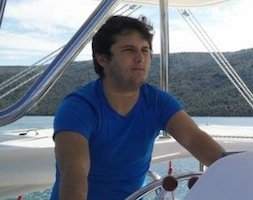
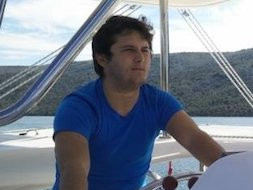
Deploy latest changes! (#432)
* - add Tetiana as a team member
- resize Sergio photo

* created link to speakers page to speakers name

* added infoTalk page

* Added room names for Cinemas (#424)

* Added room names for Cinemas

* Updated room names

* Removed 'Buy ticket' section (#422)

* added feature to workshops

* fix layout issue with speakers with 1 social link

* Add my bio

* add networking party (#425)

* add networking party

* change content

* bold sentence

* fix metro line (#427)

* replaced speaker Nicolas Gonzalez by Miguel Angel Gomez

* added Barcelona Activa as supporter

* add linkt to the party, change room Great 10 to Eleven

* change Eleve to Jane 11 Ives

* Fixed issue with Miklos foto

* fix captions mytaxi

diff --git a/2018/infoTalk.html b/2018/infoTalk.html
@@ -1,0 +1,221 @@
+---
+layout: default
+title: JBCNConf - About the Organizers from Barcelona JUG
+bodyClass: home page-template-default page page-id-7 eventstation-class eventstation-shop-column-4 wpb-js-composer js-comp-ver-5.0.1 vc_responsive
+---
+{% include base.html %}
+
+<script>
+    (function(global){
+        var talk, currentTalkId;
+        var speakers = [];
+
+        var talkId = new URL(window.location).searchParams.get("id");
+
+        {% for talkCursor in site.data.talks.items %}
+        currentTalkId = {{ talkCursor.id }}
+        if({{ talkCursor.id }} == talkId){
+            talk = {{ talkCursor | jsonify }};
+        }
+        {% endfor %}
+
+        {% for speaker in site.data.speakers.items %}
+        for (var i = 0; i < talk.speakers.length; i++) {
+            if (talk.speakers[i] == "{{ speaker.ref }}") {
+                speakers.push({{ speaker | jsonify }});
+            }
+        }
+        {% endfor %}
+
+        global.TALK = talk;
+        global.SPEAKERS = speakers;
+    }(window));
+</script>
+
+<div class="content-heading">
+    <div class="container-fluid">
+        <div class="heading-navigation">
+            <i class="fa fa-address-book"></i>
+            <ul>
+                <li>Home</li>
+                <li>&#47;</li>
+                <li id="session-type"></li>
+            </ul>
+        </div>
+
+        <div class="heading-title">
+        </div>
+    </div>
+</div>
+
+<div class="site-sub-content clearfix">
+    <div class="container-fluid">
+        <div class="row alternative-row">
+            <div class="col-lg-9 col-sm-9 col-xs-12 site-content-left">
+                <div class="category-post-list post-list single-list">
+
+                    <article cass="post-294 post type-post status-publish format-standard has-post-thumbnail hentry category-culturel tag-business tag-news tag-congress tag-entertainment">
+                        <div class="post-wrapper">
+                            <div class="post-header">
+                                <h2></h2>
+                                <h1 class="name"></h1>
+                                <h3 class="description"></h3>
+                            </div>
+                            <div id="post-content">
+                            </div>
+                        </div>
+                    </article>
+
+                    <article id="speaker-page-0"
+                             class="post-294 post type-post status-publish format-standard has-post-thumbnail hentry category-culturel tag-business tag-news tag-congress tag-entertainment">
+                        <div class="post-wrapper">
+
+                            <div class="post-header">
+                                <h2></h2>
+                                <h1 class="name"></h1>
+                                <h3 class="description"></h3>
+                            </div>
+
+                            <div>
+                                <p>
+                                    <img class="speaker-image size-full wp-image-237 alignright"
+                                         src=""
+                                         width="200"
+                                         height="300"
+                                         data-image-base="{{base}}/">
+                                    <ul style="float:right; list-style:none" class="post-information">
+                                        <li class="linkedin" style="display:none">
+                                            <a target="_blank" href="#">
+                                                <i class="fa fa-linkedin"></i>
+                                            </a>
+                                        </li>
+                                        <li class="twitter" style="display:none">
+                                            <a target="_blank" href="#">
+                                                <i class="fa fa-twitter"></i>
+                                            </a>
+                                        </li>
+                                        <li class="homepage" style="display:none">
+                                            <a target="_blank" href="#">
+                                                <i class="fa fa-rss"></i>
+                                            </a>
+                                        </li>
+                                    </ul>
+                                    <span class="biography">
+                                    </span>
+                                </p>
+                            </div>
+                        </div>
+                    </article>
+
+                    <!-- fix layout issue with speakers with only 1 social link -->
+                    <div>&nbsp;</div>
+
+                    <article id="speaker-page-1"
+                             class="post-294 post type-post status-publish format-standard has-post-thumbnail hentry category-culturel tag-business tag-news tag-congress tag-entertainment">
+                        <div class="post-wrapper">
+
+                            <div class="post-header">
+                                <h1 class="name"></h1>
+                                <h3 class="description"></h3>
+                            </div>
+
+                            <div>
+                                <p>
+                                    <img class="speaker-image size-full wp-image-237 alignright"
+                                         src=""
+                                         width="200"
+                                         height="300"
+                                         data-image-base="{{base}}/">
+                                    <ul style="float:right; list-style:none" class="post-information">
+                                        <li class="linkedin" style="display:none">
+                                            <a target="_blank" href="#">
+                                                <i class="fa fa-linkedin"></i>
+                                            </a>
+                                        </li>
+                                        <li class="twitter" style="display:none">
+                                            <a target="_blank" href="#">
+                                                <i class="fa fa-twitter"></i>
+                                            </a>
+                                        </li>
+                                        <li class="homepage" style="display:none">
+                                            <a target="_blank" href="#">
+                                                <i class="fa fa-rss"></i>
+                                            </a>
+                                        </li>
+                                    </ul>
+                                    <span class="biography">
+                                    </span>
+                                </p>
+                            </div>
+                        </div>
+                    </article>
+
+                    <script>
+                        (function () {
+                            jQuery(document).ready(function ($) {
+
+                                console.log($('#session-type'));
+                                if (window.TALK.type == 'talk') {
+                                    $('#session-type').append('Talk');
+                                    console.log('Talk');
+                                } else {
+                                    $('#session-type').append('Workshop');
+                                    console.log('WS');
+                                }
+
+                                var updateSpeakerPage = function () {
+                                    for (var i = 0; i < window.SPEAKERS.length; i++) {
+                                        var speaker = window.SPEAKERS[i],
+                                            $container = $("#speaker-page-"+i),
+                                            updateSocialLink = function (social) {
+                                                if (speaker[social]) {
+                                                  var link = speaker[social]
+                                                  if (social === 'twitter') {
+                                                    link = link.replace('\@','')
+                                                    if (!link.startsWith('http://') && !link.startsWith('https://')) {
+                                                      link = 'http://twitter.com/' + link
+                                                    }
+                                                  }
+                                                  $container.find("." + social).show();
+                                                  $container.find("." + social + " a").attr("href", link);
+                                                }
+
+                                            };
+
+                                        $container.find('.speaker-image').attr("src", $('.speaker-image').attr("data-image-base") + speaker.image);
+                                        $container.find(".name").html(speaker.name);
+                                        $container.find(".biography").html(speaker.biography);
+                                        $container.find(".description").html(speaker.description);
+
+                                        updateSocialLink("linkedin");
+                                        updateSocialLink("twitter");
+                                        updateSocialLink("homepage");
+                                    }
+
+                                    var talk = window.TALK;
+                                    var title = '<h1 class="talk-title"> ' + talk.title + '</h1><i>(' + talk.type + ')<i>';
+                                    var abstract = '<p style="text-align: justify;" class="abstract"> ' + talk.abstract + ' </p>';
+
+                                    $('#post-content').append(title);
+                                    $('#post-content').append(abstract);
+                                    if (talk.video) {
+                                        var video = '<iframe width="560" height="315" src="https://www.youtube.com/embed/' + talk.video + '"' +'frameborder="0" allowfullscreen></iframe>';
+                                        $talkContainer.find(".post-content").append(video);
+                                    }
+                                };
+                                updateSpeakerPage();
+                            });
+
+                        }());
+                    </script>
+                </div>
+            </div>
+
+            <div class="col-lg-3 col-sm-3 col-xs-12 site-content-right rightsidebar fixedrightSidebar">
+                {% include sponsors-sidebar.html %}
+            </div>
+
+        </div>
+    </div>
+
+</div>

diff --git a/2018/workshops.html b/2018/workshops.html
@@ -43,28 +43,21 @@ bodyClass: home page-template-default page page-id-7 eventstation-class  eventst
                             </div>
                             <div class="post-content">
 
-
                                 {% for talk in site.data.talks.items %}
 
                                 {% if talk.type contains "workshop" %}
 
-                                {% assign speakersList = '' %}
+                                <a href="{{base}}/infoTalk.html?id={{talk.id}}">
+                                    <b>{{talk.title}}</b> by
+                                </a>
                                 {% for speakerRef in talk.speakers %}
                                 {% for speaker in site.data.speakers.items %}
 
                                 {% if speakerRef == speaker.ref %}
-                                {% capture speakerUrl %}{{ speaker.url }}{% endcapture %}
-                                {% capture speakersList %} {{speakersList}} {{ speaker.name }} {% endcapture %}
+                                <a href="{{base}}/{{speaker.url}}" style="text-decoration: underline;">{{ speaker.name }}</a>
                                 {% endif %}
-
-
                                 {% endfor %}
                                 {% endfor %}
-
-
-                                <a href="{{base}}/{{speakerUrl}}">
-                                    <b>{{talk.title}}</b> by {{ speakersList }}
-                                </a>
 
                                 </br>
                                 Level: {{talk.level}}
@@ -77,10 +70,7 @@ bodyClass: home page-template-default page page-id-7 eventstation-class  eventst
                                 {% endif %}
                                 {% endfor %}
 
-
                             </div>
-
-
                         </div>
                     </article>
                 </div>

diff --git a/2018/talks.html b/2018/talks.html
@@ -44,28 +44,21 @@ bodyClass: home page-template-default page page-id-7 eventstation-class  eventst
 
                             <div class="post-content">
 
-
                                 {% for talk in site.data.talks.items %}
-
                                 {% if talk.type contains "talk" %}
 
-                                {% assign speakersList = '' %}
+                                <a href="{{base}}/infoTalk.html?id={{talk.id}}">
+                                <b>{{talk.title}}</b> by
+                                </a>
                                 {% for speakerRef in talk.speakers %}
                                 {% for speaker in site.data.speakers.items %}
 
                                 {% if speakerRef == speaker.ref %}
-                                {% capture speakerUrl %}{{ speaker.url }}{% endcapture %}
-                                {% capture speakersList %} {{speakersList}} {{ speaker.name }} {% endcapture %}
+                                <a href="{{base}}/{{speaker.url}}" style="text-decoration: underline;">{{ speaker.name }}</a>
                                 {% endif %}
-
-
                                 {% endfor %}
                                 {% endfor %}
 
-
-                                <a href="{{base}}/{{speakerUrl}}">
-                                    <b>{{talk.title}}</b> by {{ speakersList }}
-                                </a>
                                 </br>
                                 Level: {{talk.level}}
                                 {% for tag in talk.tags %}
@@ -76,7 +69,6 @@ bodyClass: home page-template-default page page-id-7 eventstation-class  eventst
 
                                 {% endif %}
                                 {% endfor %}
-
 
                             </div>
 

diff --git a/2018/infoSpeaker.html b/2018/infoSpeaker.html
@@ -51,7 +51,7 @@ bodyClass: home page-template-default page page-id-7 eventstation-class  eventst
                                          width="200"
                                          height="300"
                                          data-image-base="{{base}}/">
-                                <ul style="float:right" class="post-information">
+                                <ul style="float:right; list-style:none" class="post-information">
                                     <li class="linkedin" style="display:none">
                                         <a target="_blank" href="#">
                                             <i class="fa fa-linkedin"></i>

diff --git a/2018/_includes/schedule/schedule-day-one.html b/2018/_includes/schedule/schedule-day-one.html
@@ -134,7 +134,7 @@
         20:00
     </div>
 
-    {% assign breakContent = 'Networking Party' %}
+    {% assign breakContent = '<a href="networking-party.html">Networking Party</a>' %}
     {% include schedule/schedule-break-single-track.html %}
 
 </div>

diff --git a/2018/_includes/schedule/schedule-header.html b/2018/_includes/schedule/schedule-header.html
@@ -17,7 +17,7 @@
     </div>
 
     <div class=" hidden-xs hidden-sm schedule-cell col-md-2">
-        Room 'Great 10'
+        Room 'Jane 11 Ives'
     </div>
 
     <div class=" hidden-xs hidden-sm schedule-cell col-md-2">
